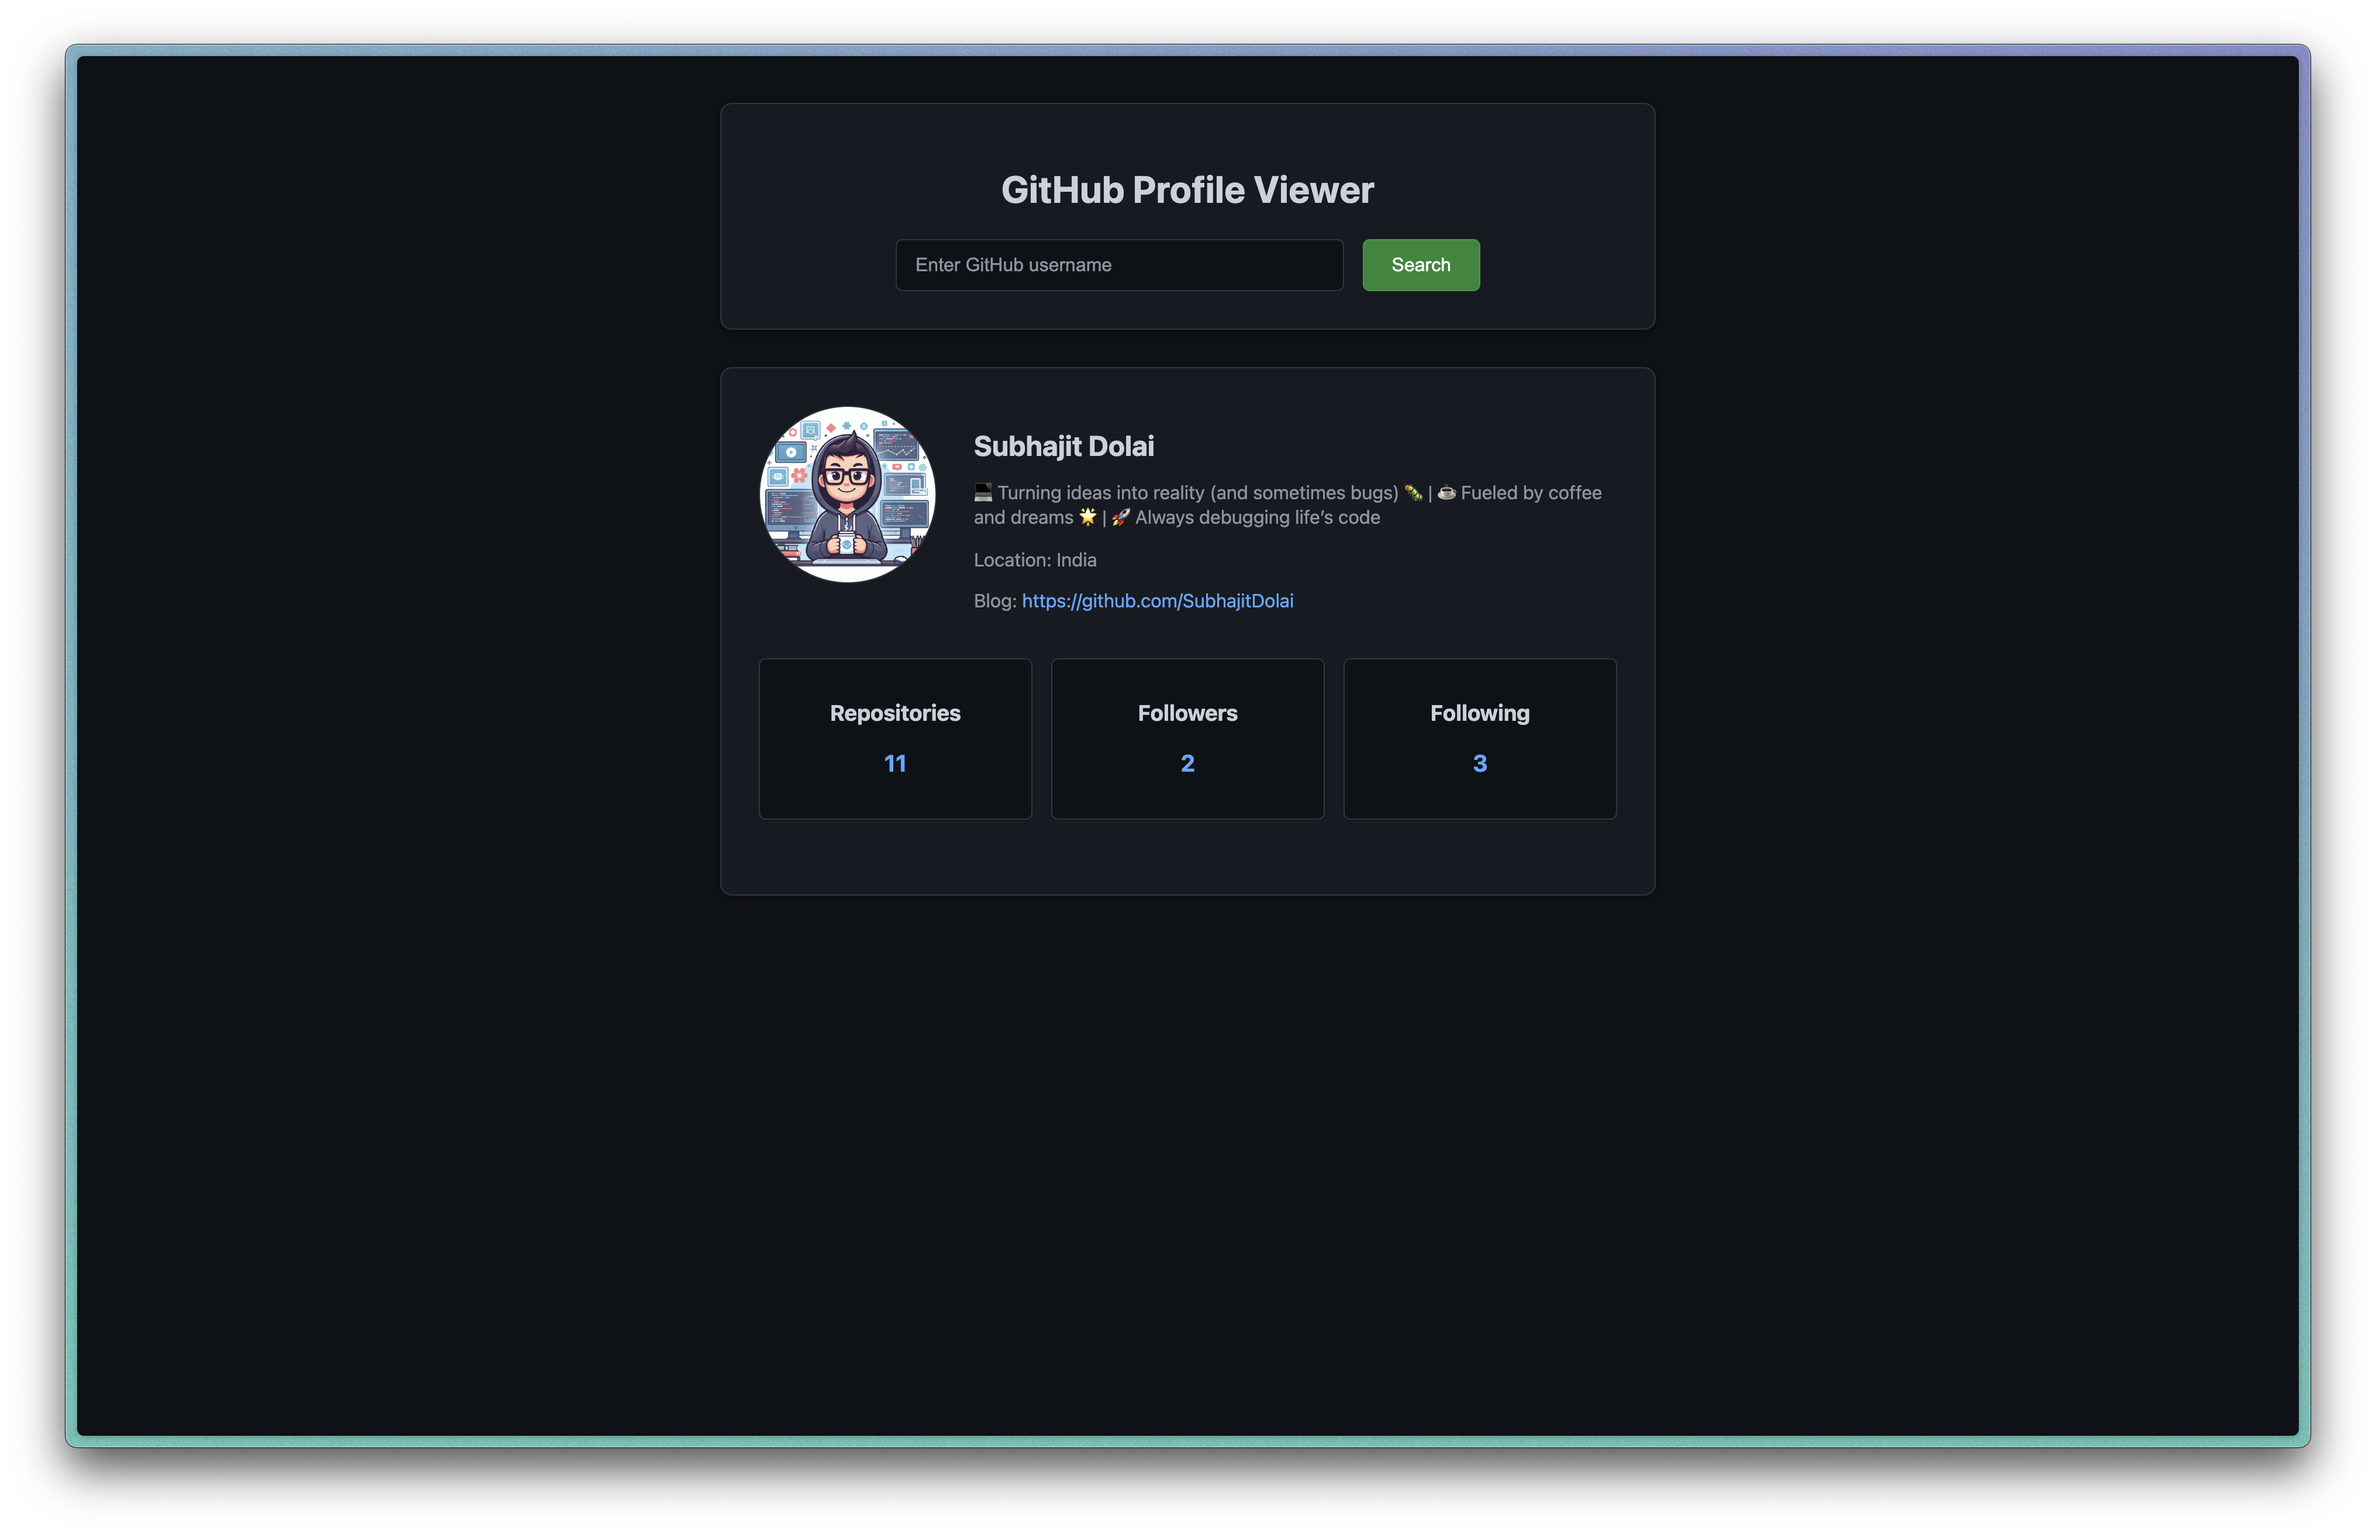
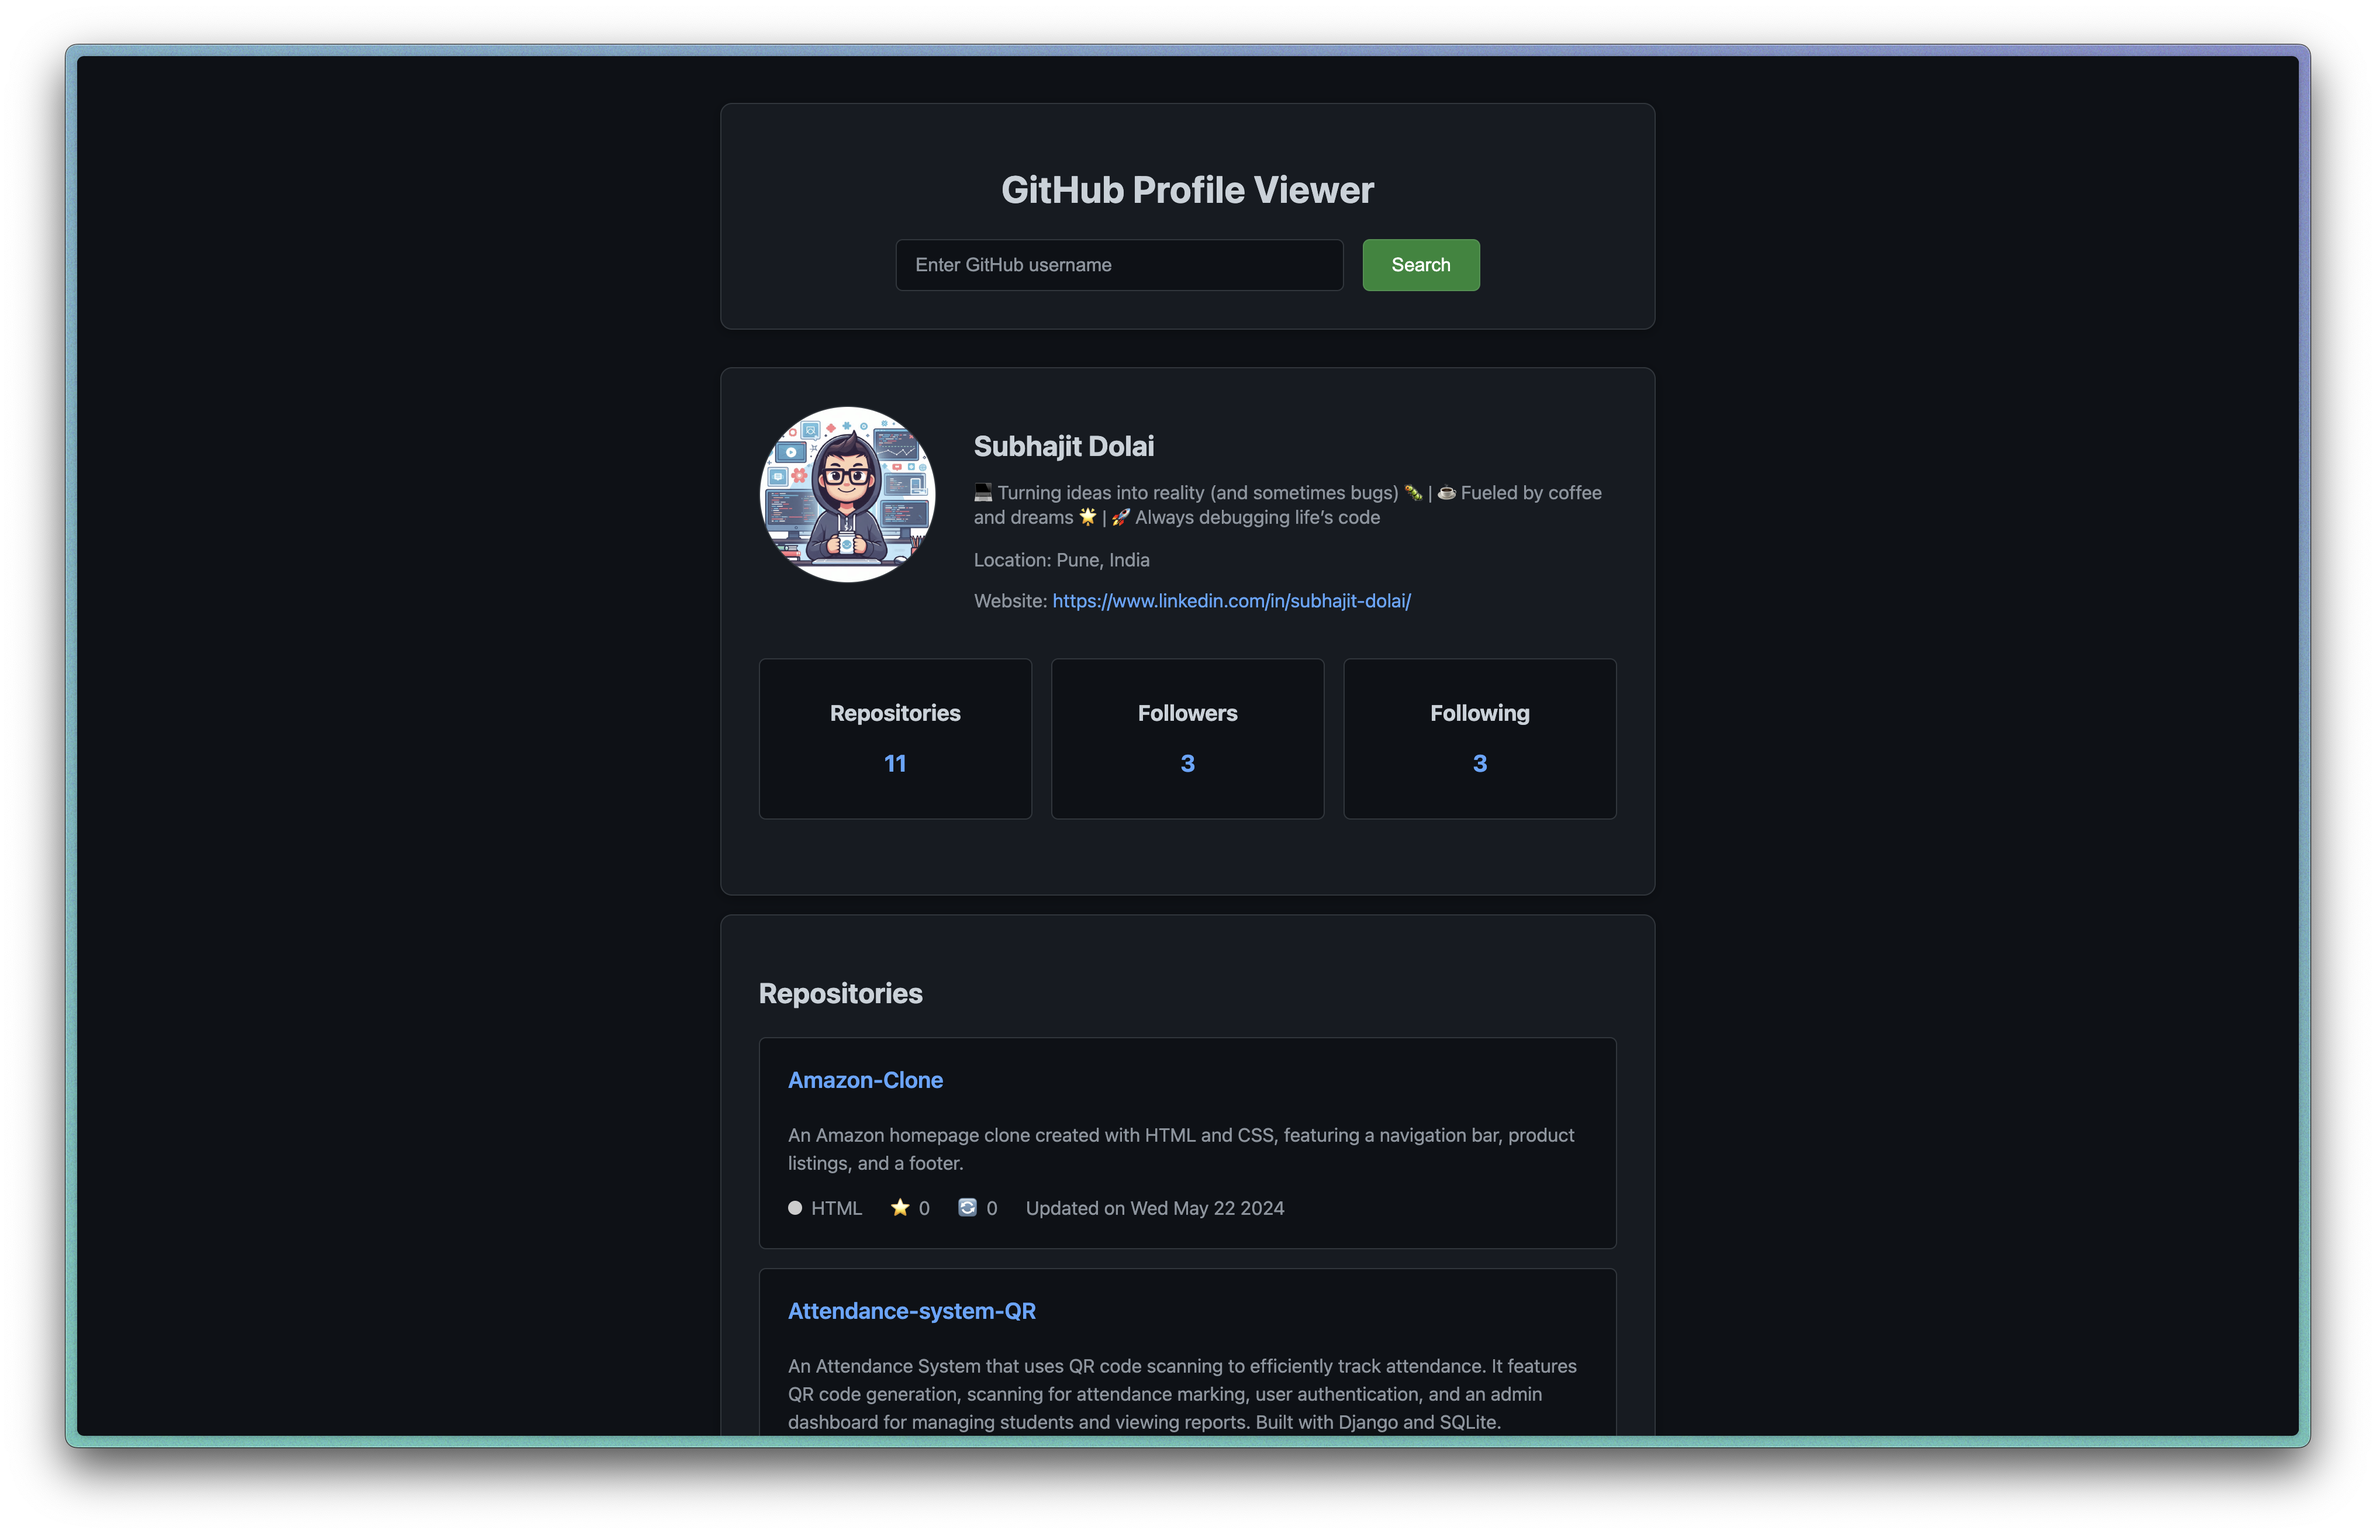
repos-card

diff --git a/script.js b/script.js
@@ -1,4 +1,4 @@
-// function to fetch api for user data in JSON format
+// Function to fetch request(github API) for user data in JSON format
 async function getGithubUserData(username) {
     try {
         const response = await fetch(`https://api.github.com/users/${username}`);
@@ -11,8 +11,37 @@ async function getGithubUserData(username) {
     }
 }
 
-// function to display the user data using DOM Manipulation
+// Function to fetch request(github API) for user's repos. data in JSON format
+async function getGithubUserRepos(username) {
+    try {
+        const response = await fetch(`https://api.github.com/users/${username}/repos`);
+        const userRepos = await response.json();
+        return userRepos;
+
+    } catch (error) {
+        console.log('Error: ', error);
+        
+    }
+}
+
+// Function to display the user data using DOM Manipulation
 function displayUserData(userData) {
+    // checks to show profile card or error message(edge cases covered)
+    if (userData.message === 'Not Found') {
+        document.getElementById('error').textContent = 'User not found!';
+        document.getElementById('error').style.display = 'block'
+        document.getElementById('profile').style.display = 'none'
+        document.getElementById('repos-section').style.display = 'none';
+        document.getElementById('repos-grid').innerHTML = '';
+        return;
+    } else {
+        document.getElementById('error').style.display = 'none'
+        document.getElementById('profile').style.display = 'block'
+        document.getElementById('repos-section').style.display = 'none';
+        document.getElementById('repos-grid').innerHTML = '';
+    }
+
+    // variables
     const avatar = document.getElementById('avatar');
     const name = document.getElementById('name');
     const bio = document.getElementById('bio');
@@ -21,15 +50,6 @@ function displayUserData(userData) {
     const repos = document.getElementById('repos');
     const followers = document.getElementById('followers');
     const following = document.getElementById('following');
-
-    // checks to show profile card or error message(edge cases covered)
-    if (userData.message === 'Not Found') {
-        document.getElementById('error').style.display = 'block'
-        document.getElementById('profile').style.display = 'none'
-    } else {
-        document.getElementById('profile').style.display = 'block'
-        document.getElementById('error').style.display = 'none'
-    }
 
     // No checks required for these variables
     name.innerText = userData.name;
@@ -60,7 +80,104 @@ function displayUserData(userData) {
     }
 }
 
-// function to handle seach
+// Function to display the user's repos data using DOM Manipulation
+function displayUserRepos(userRepos) {
+    // handling edge cases with checks
+    if (userRepos.message === 'Not Found') {
+        return;
+    } else {
+        document.getElementById('repos-section').style.display = 'block';
+    }
+
+    for (const repo of userRepos) {
+        // variables
+        const repoName = repo.name;
+        let description = repo.description;
+        let language = repo.language;
+        const starCnt = repo.stargazers_count;
+        const forkCnt = repo.forks_count;
+        const repoURL = repo.html_url;
+        const lastUpdated = repo.pushed_at;
+
+        // formating the "lastUpdated" date string to my preference
+        const date = new Date(lastUpdated).toDateString();
+
+        // checks for null value
+        if(language === null){
+            language = 'Unknown';
+        }
+        if (description === null) {
+            description = 'No description available';
+        }
+
+        // colors for every famous language to be displayed in dot
+        let languageColor = '';
+        if (language === 'JavaScript') {
+            languageColor = '#f1e05a'; // Yellow
+        } else if (language === 'Python') {
+            languageColor = '#306998'; // Blue
+        } else if (language === 'Java') {
+            languageColor = '#b07219'; // Brown
+        } else if (language === 'Ruby') {
+            languageColor = '#701516'; // Red
+        } else if (language === 'PHP') {
+            languageColor = '#4f5d95'; // Purple
+        } else if (language === 'C++') {
+            languageColor = '#f34b7d'; // Pinkish
+        } else if (language === 'C#') {
+            languageColor = '#178600'; // Green
+        } else if (language === 'TypeScript') {
+            languageColor = '#3178c6'; // Blue
+        } else if (language === 'Go') {
+            languageColor = '#00ADD8'; // Blue
+        } else if (language === 'Swift') {
+            languageColor = '#ff914d'; // Orange
+        } else if (language === 'Kotlin') {
+            languageColor = '#F18E33'; // Orange
+        } else if (language === 'Rust') {
+            languageColor = '#000000'; // Black
+        } else if (language === 'Dart') {
+            languageColor = '#00B0B9'; // Cyan
+        } else if (language === 'Lua') {
+            languageColor = '#000080'; // Navy
+        } else if (language === 'Shell') {
+            languageColor = '#89e051'; // Green
+        } else if (language === 'SQL') {
+            languageColor = '#e38c00'; // Yellow
+        } else {
+            languageColor = '#ccc'; // Default color for unknown languages
+        }
+
+        // append(+=) repo cards after each itteration (I was changing the innerHTML(=) every itteration so it displayed only last card😂)
+        document.getElementById('repos-grid')
+        .innerHTML += 
+        `
+            <div class="repo-card">
+                <a href="${repoURL}" class="repo-name">${repoName}</a>
+                <p class="repo-description">${description}</p>
+                <div class="repo-stats">
+                    <div class="repo-stat">
+                        <span class="repo-language-dot" style="background: ${languageColor};"></span>
+                        <span>${language}</span>
+                    </div>
+                    <div class="repo-stat">
+                        <span>⭐</span>
+                        <span>${starCnt}</span>
+                    </div>
+                    <div class="repo-stat">
+                        <span>🔄</span>
+                        <span>${forkCnt}</span>
+                    </div>
+                    <div class="repo-stat">
+                        Updated on ${date}
+                    </div>
+                </div>
+            </div>
+        `
+    }
+}
+
+// Function to handle seach
 async function handleSearch() {
     const username = document.querySelector('#username');
     // check for empty username
@@ -68,14 +185,23 @@ async function handleSearch() {
         document.getElementById('error').textContent = 'Please enter a username';
         document.getElementById('error').style.display = 'block';
         document.getElementById('profile').style.display = 'none';
+        document.getElementById('repos-section').style.display = 'none';
         return;
     }
     
+    // User-data
     const userData = await getGithubUserData(username.value);
     displayUserData(userData);
+
+    // User's repos data
+    const userRepos = await getGithubUserRepos(username.value);
+    displayUserRepos(userRepos);
+
+    // clear input-box after data is displayed
     searchInput.value = "";
 }
 
+// -----------------------global-------------------------
 const searchButton = document.querySelector('#searchBtn');
 const searchInput = document.querySelector('#username');
 

diff --git a/style.css b/style.css
@@ -13,6 +13,7 @@ body {
     width: 100%;
 }
 
+/* search-box */
 .search-box {
     background: #161b22;
     padding: 2rem;
@@ -72,6 +73,7 @@ button:hover {
     background: #2ea043;
 }
 
+/* profile-section */
 .profile-container {
     background: #161b22;
     border-radius: 10px;
@@ -153,4 +155,69 @@ a {
 
 a:hover {
     text-decoration: underline;
+}
+
+/* repos-section */
+.repos-section {
+    background: #161b22;
+    border-radius: 10px;
+    border: 1px solid #30363d;
+    box-shadow: 0 2px 10px rgba(0,0,0,0.3);
+    padding: 2rem;
+    margin-top: 1rem;
+    margin-bottom: 1rem;
+    display: none;
+}
+
+.repos-title {
+    color: #c9d1d9;
+    margin-bottom: 1.5rem;
+    font-size: 1.5rem;
+}
+
+.repo-card {
+    background: #0d1117;
+    padding: 1.5rem;
+    border-radius: 6px;
+    border: 1px solid #30363d;
+    margin-bottom: 1rem;
+}
+
+.repo-name {
+    color: #58a6ff;
+    font-size: 1.2rem;
+    font-weight: 600;
+    text-decoration: none;
+    display: inline-block;
+    margin-bottom: 0.5rem;
+}
+
+.repo-name:hover {
+    text-decoration: underline;
+}
+
+.repo-description {
+    color: #8b949e;
+    margin-bottom: 1rem;
+    line-height: 1.5;
+}
+
+.repo-stats {
+    display: flex;
+    align-items: center;
+    gap: 1.5rem;
+    color: #8b949e;
+    flex-wrap: wrap;
+}
+
+.repo-stat {
+    display: flex;
+    align-items: center;
+    gap: 0.5rem;
+}
+
+.repo-language-dot {
+    width: 12px;
+    height: 12px;
+    border-radius: 50%;
 }

diff --git a/index.html b/index.html
@@ -8,6 +8,7 @@
 </head>
 <body>
     <div class="container">
+        <!-- search-box -->
         <div class="search-box">
             <h1>GitHub Profile Viewer</h1>
             <div class="input-group">
@@ -17,6 +18,7 @@
             <div class="error-message" id="error">User not found!</div>
         </div>
 
+        <!-- profile-section -->
         <div class="profile-container" id="profile">
             <div class="profile-header">
                 <img class="avatar" id="avatar" src="" alt="Profile avatar">
@@ -41,6 +43,14 @@
                     <h3>Following</h3>
                     <p id="following">0</p>
                 </div>
+            </div>
+        </div>
+
+        <!-- repos-section -->
+        <div class="repos-section" id="repos-section">
+            <h2 class="repos-title">Repositories</h2>
+            <div class="repos-grid" id="repos-grid">
+                <!-- JS will create repository cards here -->
             </div>
         </div>
     </div>

diff --git a/readme.md b/readme.md
@@ -1,6 +1,6 @@
 # GitPeek
 
-**GitPeek** is a simple web application that allows users to input a GitHub username and fetch detailed profile information using the GitHub API. It's an intuitive and minimalistic way to explore public data about GitHub users.
+**GitPeek** is a simple and interactive web application that allows users to input a GitHub username and fetch detailed profile information using the GitHub API. It's an intuitive and minimalistic way to explore public data about GitHub users.
 
 ---
 
@@ -13,7 +13,7 @@ Check out the live version of the project here:
 
 ## Features
 
-- Fetches and displays GitHub profile details, including:
+- Fetches and displays detailed GitHub profile information, including:
   - Profile picture
   - Name
   - Bio
@@ -21,7 +21,16 @@ Check out the live version of the project here:
   - Blog/Website
   - Public repositories count
   - Followers and following count
+- Displays a card for each public repository with:
+  - Repository name (clickable link to the repo)
+  - Description
+  - Primary programming language with color-coded badges
+  - Star count
+  - Fork count
+  - Last updated date
 - User-friendly and responsive interface.
+- Input validation to prevent spaces in the username field.
+- Error handling to display meaningful messages for invalid usernames or API failures.
 
 ---
 
@@ -31,3 +40,46 @@ Check out the live version of the project here:
 *Example of the user interface displaying profile data.*
 
 ---
+
+## Upcoming Features
+
+- Display pinned repositories with their details.
+- Most-used programming languages represented as a pie chart.
+- Links to connected social accounts like Twitter or LinkedIn (if available).
+- Enhanced repository cards with additional metadata.
+
+---
+
+## Technologies Used
+
+- **HTML**: For structuring the application.
+- **CSS**: For styling and responsive design.
+- **JavaScript**: For fetching and dynamically displaying data using the GitHub REST API.
+
+---
+
+## Installation and Usage
+
+1. Clone the repository:
+   ```bash
+   git clone https://github.com/subhajitdolai/GitPeek.git
+   ```
+
+2. Navigate to the project directory:
+   ```bash
+   cd GitPeek
+   ```
+
+3. Open the `index.html` file in your preferred browser or host it on a live server for the best experience.
+
+---
+
+## Contributing
+
+Contributions are welcome! Feel free to fork the repository and submit a pull request with your changes. Try to implement the above features mentioned.
+
+---
+
+## Acknowledgements
+
+- GitHub API Documentation: [GitHub REST API](https://docs.github.com/en/rest)
